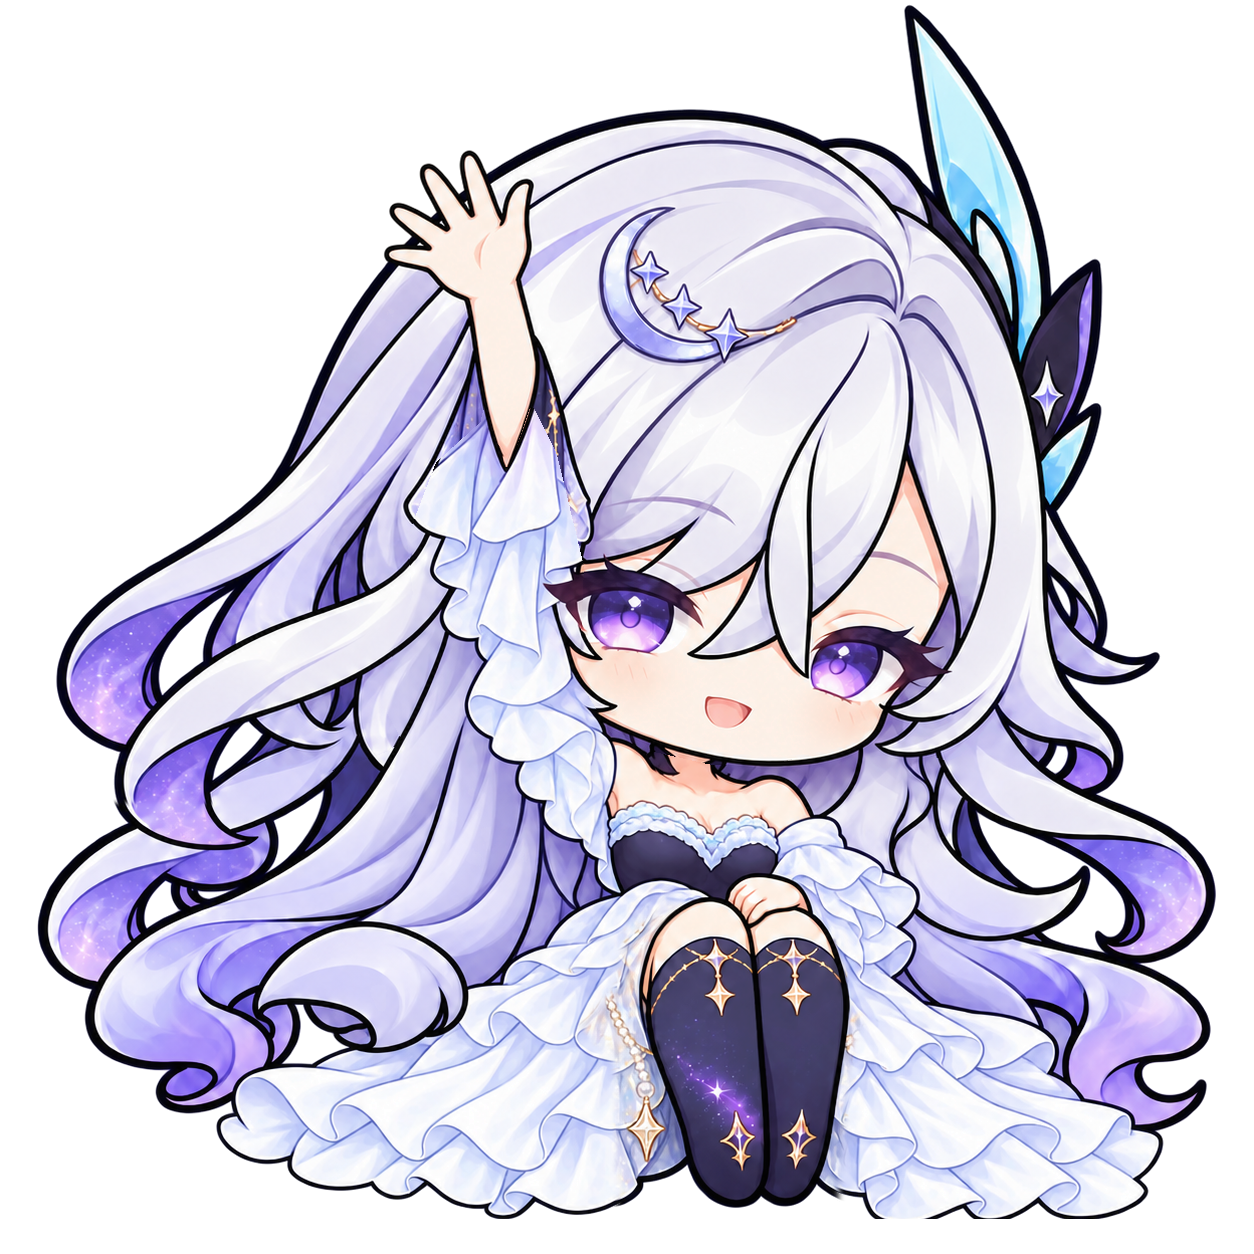
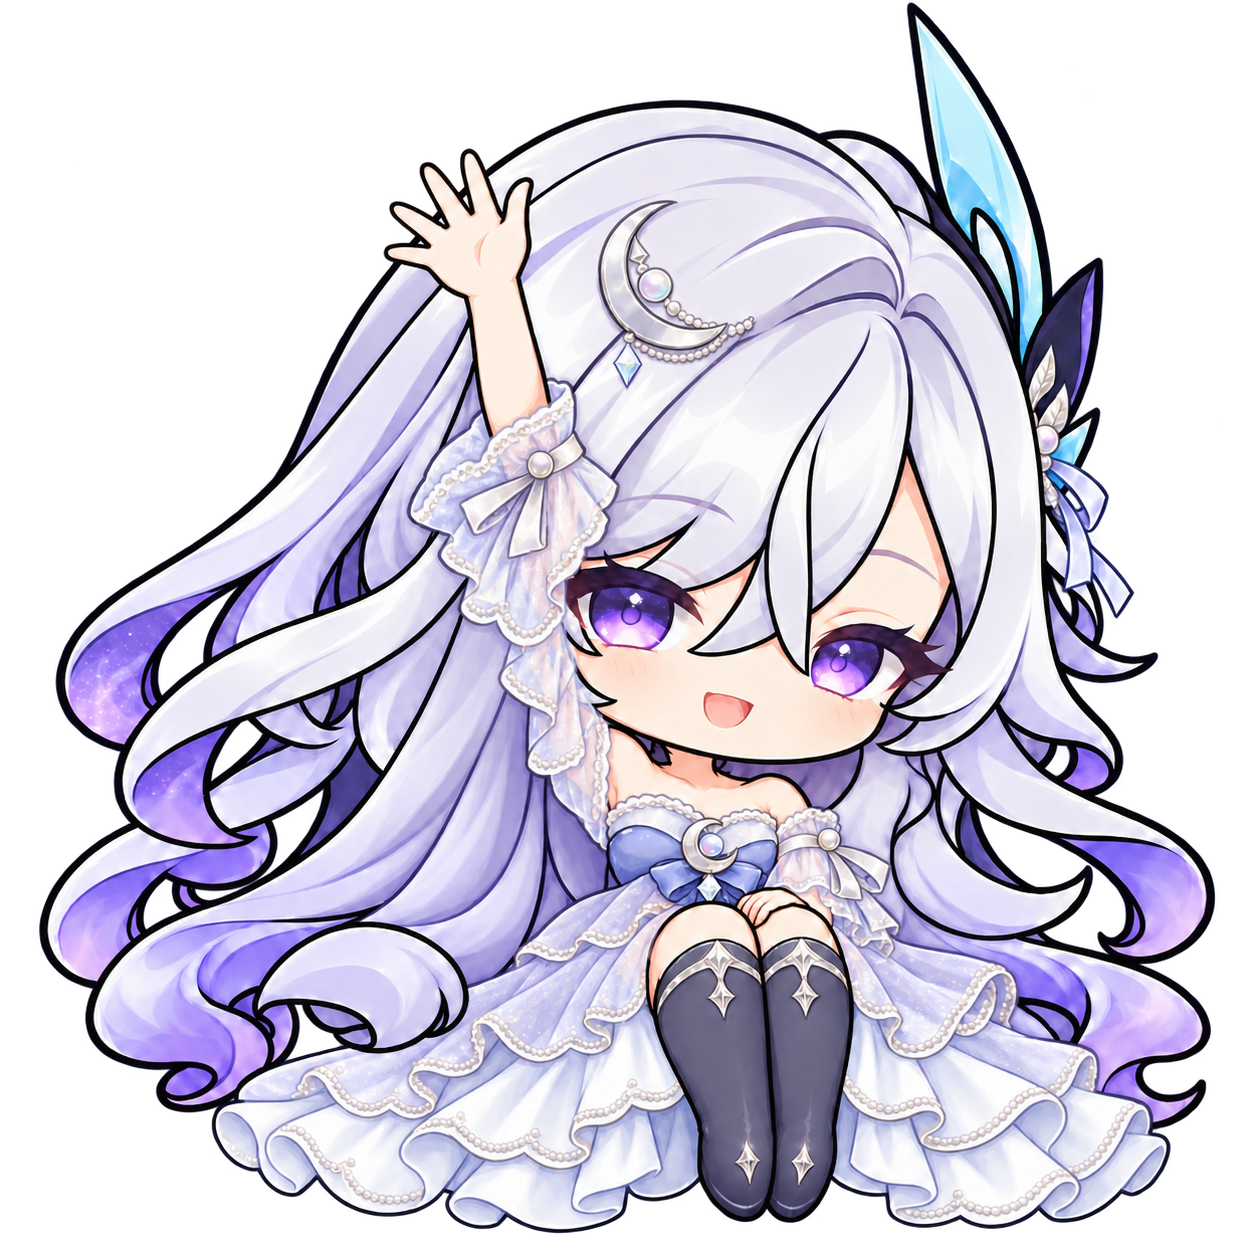
art: finish all 110 Starsea gown step-one sprites

diff --git a/HANDOFF.md b/HANDOFF.md
@@ -1,4 +1,8 @@
 # Current Progress
+- **2026-10-16 STEP 1 ARTWORK COMPLETE: 110/110 redrawn sprites, awaiting human integration/visual acceptance.** Five qualities each retain all 22 original filenames. Final ten wave_1/wave_2 sprites generated with built-in imagegen and inspected in a 5-column/two-frame comparison sheet; raised palm beside face versus above forehead matches the references. Root STARSEA_GOWN_PREVIEW.png inspected at large and 80px scale, ordered fanxing/mingyue/haori/yinhe/xinghai; rarity changes use silhouette, palette and brightness. Existing per-tier PREVIEW.png files unchanged. No runtime/code, paid API, step 2, merge or push.
+- Final fresh QA: 110/110 Pillow and native PySide6 QImage decodes, all 1254x1254 RGBA, alpha extrema 0/255, 110 unique file hashes and 110 unique decoded pixel arrays; every sprite differs from ad44b23. Five folders contain exactly their original 22 frames plus unchanged PREVIEW.png. Baseline diff is exactly 110 sprite paths, HANDOFF.md and root preview (112 files). Three known lower-left corner pixels retain generated alpha=1/255 (fanxing/headpat_1, fanxing/typing_3, xinghai/dragged_1); other corners zero. No opaque backdrop. Exact pixel registration, blink outside-eye identity and native animation/accessory overlay remain unverified; human integration acceptance is required.
+- Final QA evidence: visualization session directory contains starsea-final-qa.json and starsea-wave-qa.png; original pose snapshots, common identity-preserve prompt, five costume specifications and final wave prompt/output records are in starsea-refs/generation-state.json. Full path appears in the recovery-inputs entry below. Built-in imagegen used throughout; original-pose reference plus costume master (sleeping poses use original pose alone) preserved. Final journal grew to 36,389 characters; two final writes hit Windows os error 206 after PNG copies succeeded. Repaired by short sequential AppendAllText writes; full JSON reloaded and full 110-image QA passed. No art regeneration was required.
+- Historical partial/quota checkpoints below are superseded by the completed 110/110 scope above. All checkpoint commits remain on codex/outfits-starsea-gown; the final completion commit adds the ten wave sprites and handoff, while earlier commits contain the other 100 and preview.
 - 2026-10-14 quota recheck checkpoint: all ten final wave_1/wave_2 generation attempts returned HTTP 429 usage_limit_reached; NO sprite changed, still 100/110 and step 1 incomplete. Latest tool reset timestamp 1792029747 = 2026-10-14 22:02:27 America/Toronto (tool estimate, not a guaranteed recovery). Recovery state saved to generation-state.json. Fresh native PySide6 QImage check: 100/100 decode, 1254x1254, alpha channel present. Baseline diff equals exactly the 100 delivered sprite paths plus HANDOFF.md and root preview (102 files); git diff --check passes. Only this handoff changed today. Next resume: retry the ten wave sprites after recovery, then full final QA/local art commit. No paid API, push or step 2.
 - Milestone 100/110: thinking_2 and typing_1..3 complete for all tiers. Thoughtful opposite-cheek support and three distinct keyboard hand poses inspected in five-tier comparison sheets; keyboard retained as the existing action prop with blank keycaps. All 100 images decode at 1254x1254 RGBA with 100 unique file hashes AND 100 unique decoded pixel arrays, alpha extrema 0/255. Three known corners have alpha=1 residue (xinghai/dragged_1, fanxing/headpat_1, fanxing/typing_3); other checked corners zero. Global PySide6 is available for final native PNG-decoder validation.
 - 2026-10-13 recovery milestone: fanxing/haori sleep_1 corrected using original pose as sole image input; both visible bbox tops are y171, equal to the reference, rather than the rejected y309/y290. All five sleep_2 and thinking_1 frames completed. Sleep_2 reference bbox top y97, tier tops y96/y96/y94/y95/y94; side-lying head size/boot orientation visually retained. Sleep and thinking comparison sheet inspected. Cumulative 80 PNGs decode at 1254x1254 RGBA, have 80 unique SHA256s and alpha 0/255; only the previously documented two alpha=1 corner pixels remain. No rejected sleep frames remain in the deliverables. Thirty sprites are still outstanding.
@@ -92,7 +96,7 @@
 - Human launcher: `D:\Documents\ChatGPT\petoken-takeover-backups\2026-10-04-v1.4\package-dev\petoken\preview-v1.4.cmd`; ZIP: `D:\Documents\ChatGPT\petoken-takeover-backups\2026-10-04-v1.4\package-dev\petoken-Windows-x64.zip`; checklist: `docs/V1_4_VISUAL_QA.md`. Source checkpoint `27e3438`; technical continuity checkpoint `c40270a`; user acceptance is a documentation-only update, with package/runtime unchanged.
 
 # Decisions
-- Starsea gown (2026-10-12): user explicitly assigned this isolated asset branch; retain the five rarity costume masters, use pose-specific references, keep all original filenames and real alpha. Record a local partial checkpoint because image quota prevented completing step 1; do not present the checkpoint as delivery of all 110 sprites.
+- Starsea gown (2026-10-16): retain the five rarity costume masters and pose-specific references, all original filenames and generated alpha. Preserve earlier quota checkpoints; final branch contains all 110 step-1 sprites. Human acceptance gates step 2; local-only delivery with no runtime edits or paid backend.
 - User retains Hub with fixed explicit visibility and independent context pin, while Stars stay task-local. Shared silver/indigo samples match approved pet hair/clothes; reuse existing Qt/native menu/poller generation fence, no new layout/theme dependency. Project spacing belongs in QTreeWidget item style (previous padding only covered QListWidget), without changing store identities or CRUD.
 - User-corrected Bongo Cat reference selects muted toy/notebook materials and clearer portrait framing. Use native Qt controls and physical-DPR thumbnail caching; separate compact pager sizing from larger tactile buttons. Original icons/artwork remain project-owned and references are recorded in DESIGN.md.
 - Human gentle-space feedback selects one shared pearl/lavender/quiet-blue default; flatten decorative container borders, preserve functional navigation and native control behavior. Complete Qt combo subcontrols and explicit selected-text roles prevent native palette leakage; Qt references in DESIGN.md, no external code copied.
@@ -106,7 +110,7 @@
 - Explicit Git allowlists. Current authorization permits GitHub main/tag/release as v1.3.0; APP_VERSION is promoted to1.3.0. Preserve local stable installation and unrelated .autopilot. Existing public repository and fast-forward history are retained.
 
 # Next Steps
-- [ ] (Starsea gown, highest priority) After built-in recovery (latest tool estimate 2026-10-14 22:02:27 America/Toronto), continue every tier's `wave_1`, `wave_2` (10 outstanding). Check alignment/continuity and rarity differences, verify full 110-file scope with Pillow and Qt PNG decoding, refresh preview if needed, then commit the COMPLETED step 1 locally and report its hash. Do not push or switch to paid API. Step 2 requires the user's acceptance of completed step 1.
+- [ ] (Starsea gown, HUMAN ACCEPTANCE) Integrate/review completed step 1 on codex/outfits-starsea-gown, check native playback and accessory alignment. Only begin step 2 after explicit user confirmation; do not push.
 - [x] Human accepted V1.4; Codex V1.4 work ended.
 - [ ] Await next user assignment after V1.5 Codex-only local commit/report; user forwards shared compatibility UI and historical resize-test requirements to Claude.
 - Claude owns V1.5 shared integration/build/merge; human owns acceptance. Codex must not expand file scope, cross-review, merge, push, tag or publish.
@@ -121,7 +125,7 @@
 - No required release work remains; future changes need a new task. Local stable installation is not replaced.
 
 # Open Issues
-- Starsea gown step 1 remains incomplete at 100/110; only ten wave sprites remain. Built-in imagegen quota rechecked 2026-10-14 and is still blocked; no asset was generated. Both rejected sleep_1 poses are repaired. Exact pixel registration/unchanged non-eye pixels/native integration not accepted; do not declare step 1 complete before remaining art and final QA. User chose built-in generation only; do not switch to paid API. No automatic wakeup is configured/available in this session.
+- Starsea gown artwork set is complete (110/110), but exact pixel registration, blink outside-eye identity, native animation and accessory overlay are not verified/accepted. Human reviews stage 1 before authorizing stage 2. Three negligible alpha=1 corner residues are retained from generation and documented above. No active generation jobs or automatic wakeup.
 - Current V1.4 fixed Hub/artwork palette/project rows plus retained portrait/pager/checkbox/selection have bounded native/source and root frozen/package PASS. Fixed440x720 Hub cannot guarantee containment on smaller workareas. Human palette preference/beginner comprehension/daily usability/otherDPI and separate release approval remain pending. Synchronous locked saves take~289–311ms under the reviewed fault; local note data is plain text as documented.
 - Historical v1.3.0 candidate appearance/visual QA was accepted by the user; new V1.4 workbench human QA is pending. This does not establish exhaustive multi-monitor/fractional-DPI/tiny-workarea or physical activity detection coverage; no universal-device claim.
 - Current safe ring has up to8hits per page;24/64task universes are tested and production is not truncated to64. Whole composition requires enough workarea for body plus fixed hit footprints; impossible tiny workareas retain decoration without containment guarantee. Detail overlap/appearance remain human judgment. Synthetic poses prove rendering, not live physical keyboard/microphone/media detection.
